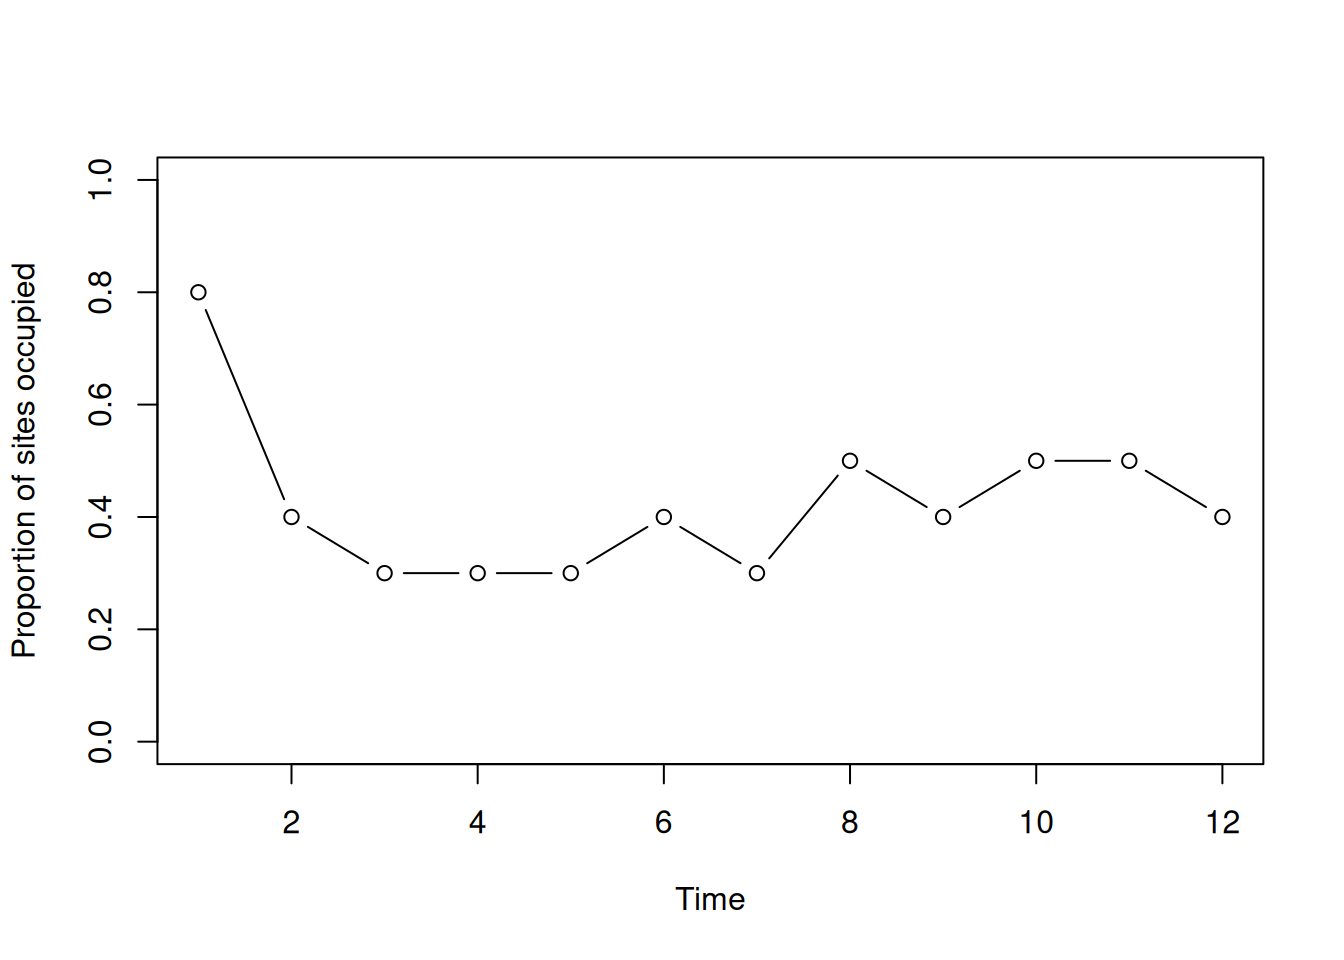
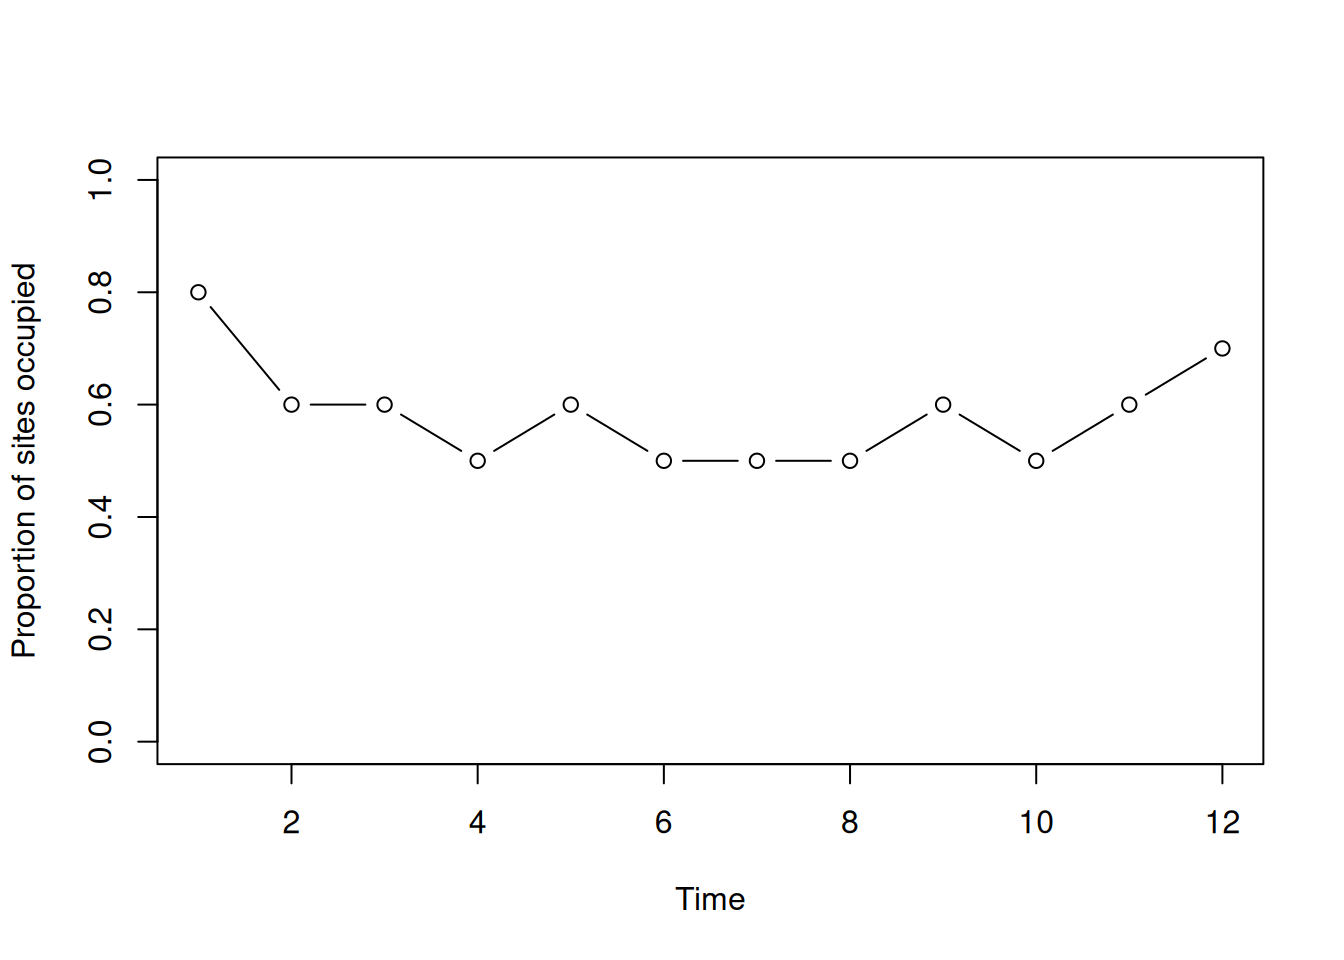
metapop lab

diff --git a/docs/labs/metapop/lab-metapop.html b/docs/labs/metapop/lab-metapop.html
@@ -217,8 +217,8 @@ window.Quarto = {
 </section>
 <section id="exercise-ii-abundance-based-metapopulation-models" class="level3">
 <h3 class="anchored" data-anchor-id="exercise-ii-abundance-based-metapopulation-models">Exercise II: Abundance-based metapopulation models</h3>
-<p>You have been hired by the Charles Darwin Research Center on the Galapagos Islands. Your job is to assess a metapopulation of a species of special concern – the Magnificent Frigatebird.</p>
 <p><img src="figs/frigatebird.jpg" class="img-fluid"></p>
+<p>You have been hired by the Charles Darwin Research Center on the Galapagos Islands. Your job is to assess a metapopulation of a species of special concern – the Magnificent Frigatebird.</p>
 <p>Historical (fake) data showed that 2 populations of frigatebirds were isolated for 40 years.</p>
 <ol type="a">
 <li>Project each population forward 40 years using the basic geometric growth model (not the metapopulation model) with <span class="math inline">\(\lambda_1=1.05\)</span> and <span class="math inline">\(\lambda_2=0.95\)</span>.</li>
@@ -255,17 +255,17 @@ window.Quarto = {
 <div class="cell-output cell-output-stdout">
 <pre><code>      [,1] [,2] [,3] [,4] [,5] [,6] [,7] [,8] [,9] [,10]
  [1,]    1    1    1    1    1    1    1    1    0     0
- [2,]    0    1    1    0    1    1    0    0    0     0
- [3,]    0    1    1    0    0    0    0    0    0     1
- [4,]    0    1    0    0    0    0    0    0    1     1
- [5,]    0    0    0    0    0    1    0    0    1     1
- [6,]    0    1    0    0    0    1    0    0    1     1
- [7,]    0    1    0    0    0    1    0    0    0     1
- [8,]    1    1    0    0    0    1    1    1    0     0
- [9,]    1    0    0    0    1    0    1    1    0     0
-[10,]    1    1    0    0    1    1    1    0    0     0
-[11,]    1    1    0    0    1    1    1    0    0     0
-[12,]    1    1    0    0    0    1    1    0    0     0</code></pre>
+ [2,]    0    1    1    0    1    1    1    1    0     0
+ [3,]    0    1    1    0    1    1    1    1    0     0
+ [4,]    0    0    1    0    1    1    1    1    0     0
+ [5,]    1    0    1    1    1    0    1    1    0     0
+ [6,]    1    0    1    1    1    0    0    1    0     0
+ [7,]    1    0    1    1    0    1    0    0    0     1
+ [8,]    1    0    0    1    0    1    1    0    0     1
+ [9,]    1    0    1    1    0    1    0    0    1     1
+[10,]    0    0    1    1    1    1    0    0    1     0
+[11,]    0    0    1    1    1    1    0    1    1     0
+[12,]    0    0    1    1    1    1    0    1    1     1</code></pre>
 </div>
 </div>
 <p>Compute the number of sites occupied each year.</p>
@@ -273,7 +273,7 @@ window.Quarto = {
 <div class="code-copy-outer-scaffold"><div class="sourceCode cell-code" id="cb6"><pre class="sourceCode r code-with-copy"><code class="sourceCode r"><span id="cb6-1"><a href="#cb6-1" aria-hidden="true" tabindex="-1"></a>nOccupied <span class="ot">&lt;-</span> <span class="fu">rowSums</span>(O)</span>
 <span id="cb6-2"><a href="#cb6-2" aria-hidden="true" tabindex="-1"></a>nOccupied</span></code></pre></div><button title="Copy to Clipboard" class="code-copy-button"><i class="bi"></i></button></div>
 <div class="cell-output cell-output-stdout">
-<pre><code> [1] 8 4 3 3 3 4 3 5 4 5 5 4</code></pre>
+<pre><code> [1] 8 6 6 5 6 5 5 5 6 5 6 7</code></pre>
 </div>
 </div>
 <p>Compute the proportion of sites occupied (PrO) each year.</p>
@@ -281,7 +281,7 @@ window.Quarto = {
 <div class="code-copy-outer-scaffold"><div class="sourceCode cell-code" id="cb8"><pre class="sourceCode r code-with-copy"><code class="sourceCode r"><span id="cb8-1"><a href="#cb8-1" aria-hidden="true" tabindex="-1"></a>PrO <span class="ot">&lt;-</span> nOccupied <span class="sc">/</span> nSites</span>
 <span id="cb8-2"><a href="#cb8-2" aria-hidden="true" tabindex="-1"></a>PrO</span></code></pre></div><button title="Copy to Clipboard" class="code-copy-button"><i class="bi"></i></button></div>
 <div class="cell-output cell-output-stdout">
-<pre><code> [1] 0.8 0.4 0.3 0.3 0.3 0.4 0.3 0.5 0.4 0.5 0.5 0.4</code></pre>
+<pre><code> [1] 0.8 0.6 0.6 0.5 0.6 0.5 0.5 0.5 0.6 0.5 0.6 0.7</code></pre>
 </div>
 </div>
 <p>Graph it.</p>

diff --git a/docs/index.html b/docs/index.html
@@ -238,7 +238,8 @@ ul.task-list li input[type="checkbox"] {
 <section id="week-8---metapopulations" class="level3">
 <h3 class="anchored" data-anchor-id="week-8---metapopulations">Week 8 - Metapopulations</h3>
 <ul>
-<li><a href="./lectures/metapop/lecture-metapop.html">Lecture 10 - Metapopulations</a></li>
+<li><p><a href="./lectures/metapop/lecture-metapop.html">Lecture 10 - Metapopulations</a></p></li>
+<li><p><a href="./labs/metapop/lab-metapop.html">Lab 8 - Metapopulations</a></p></li>
 </ul>
 
 
